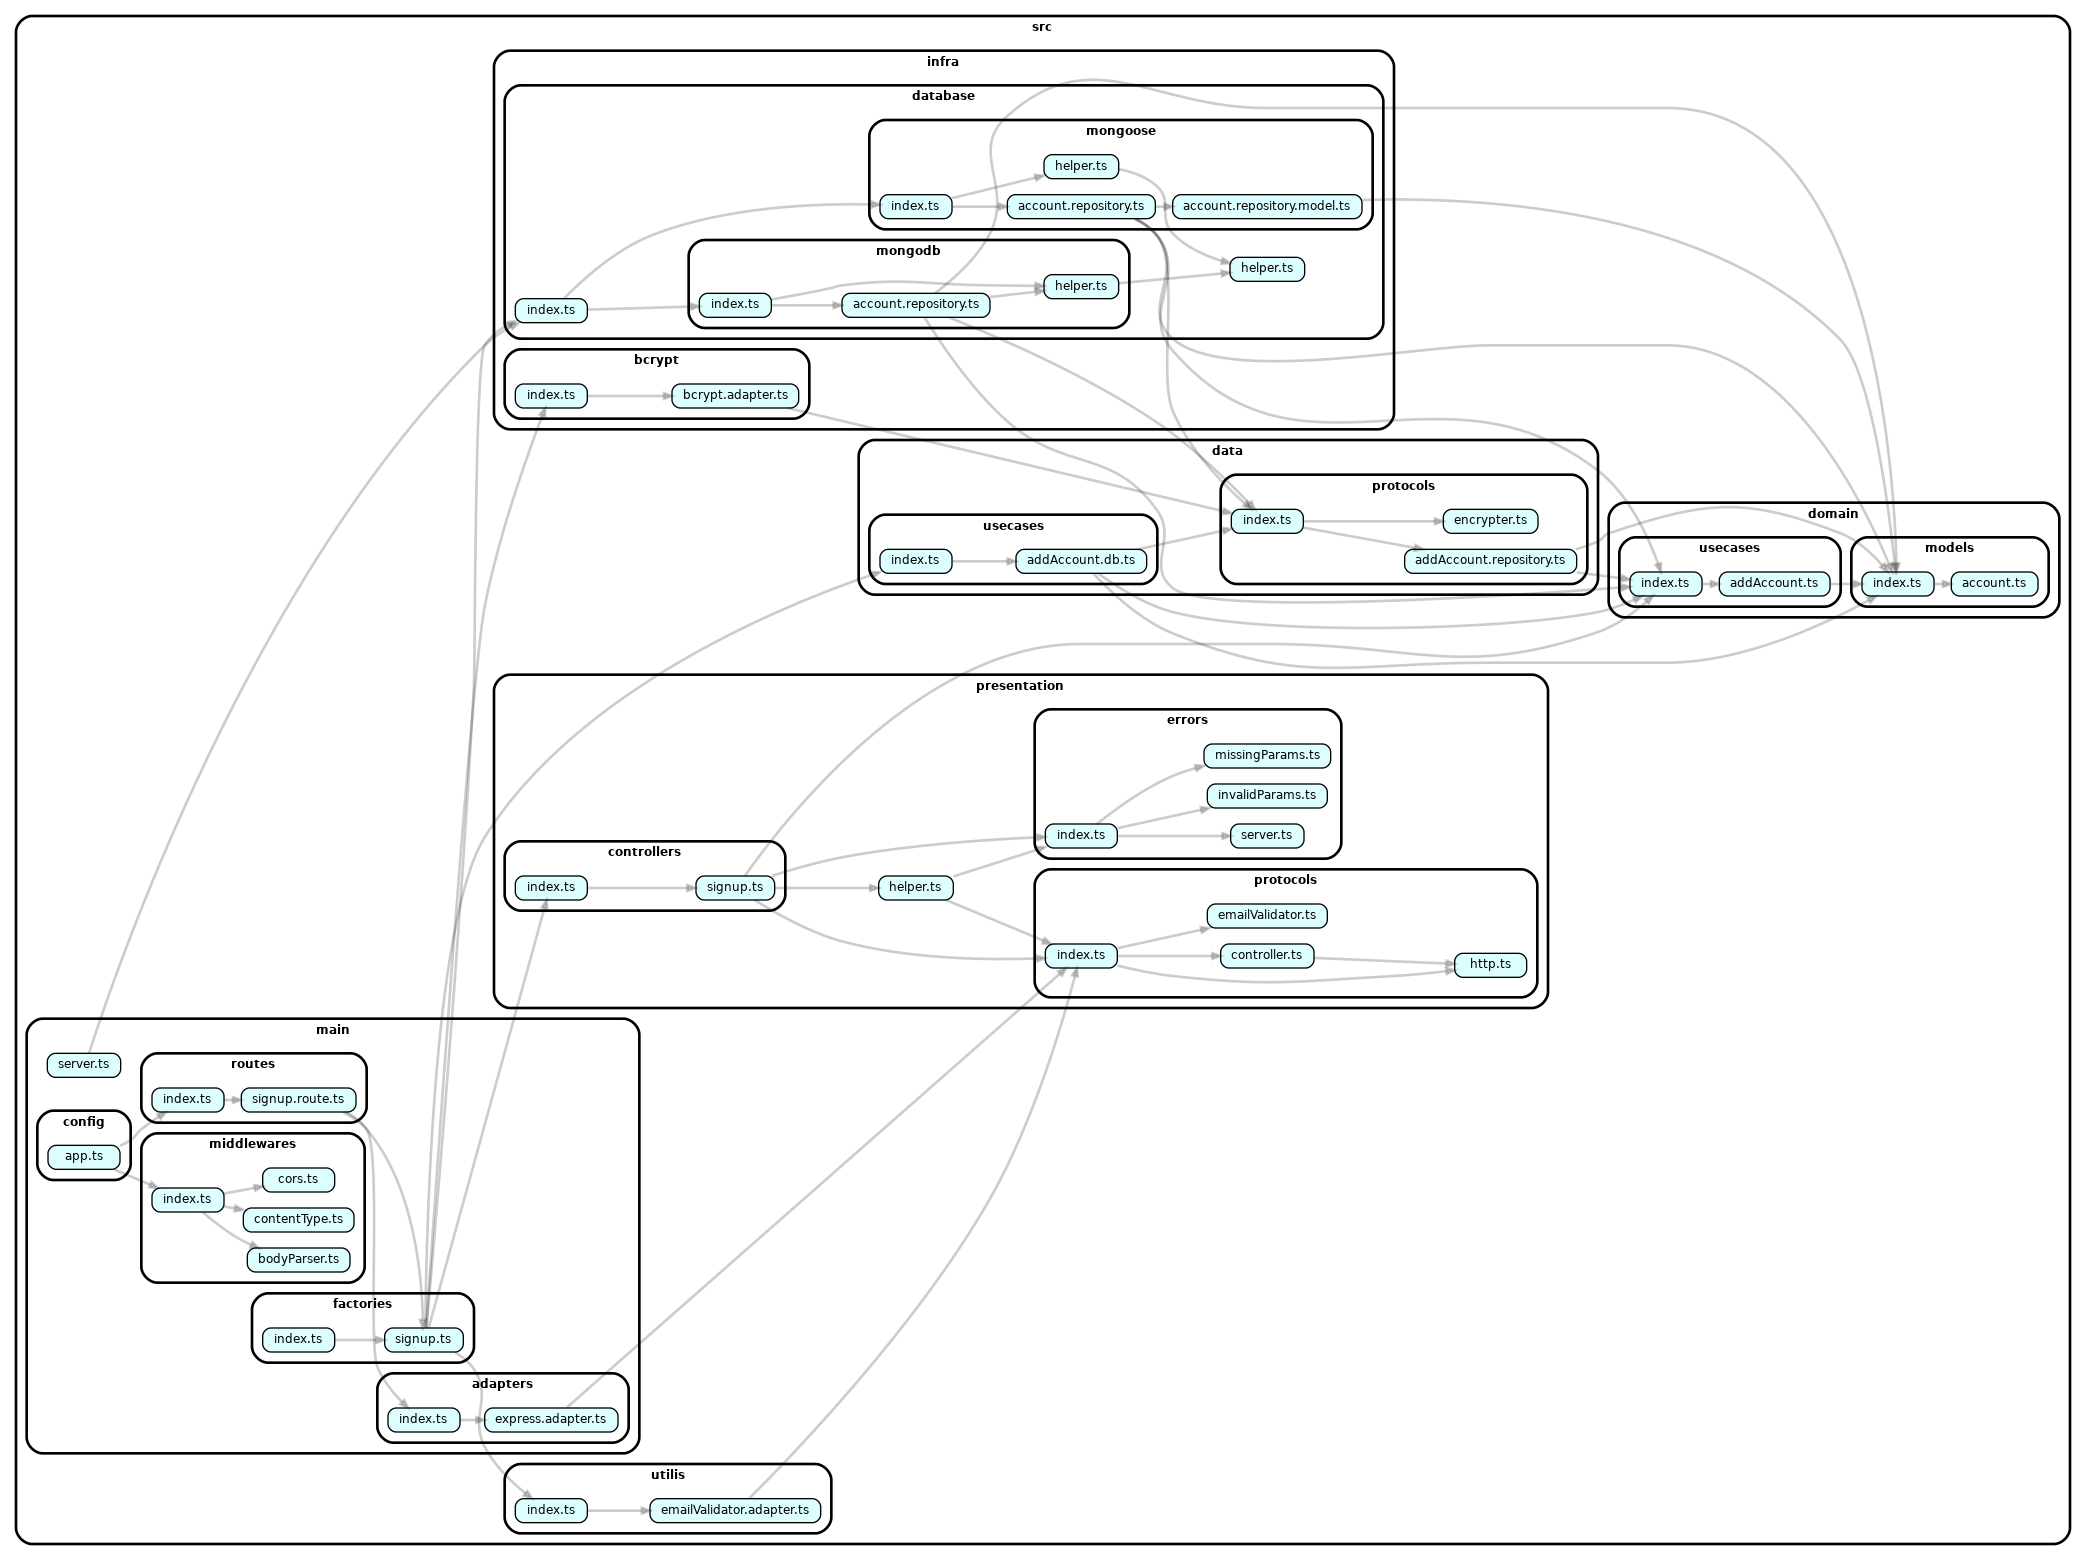
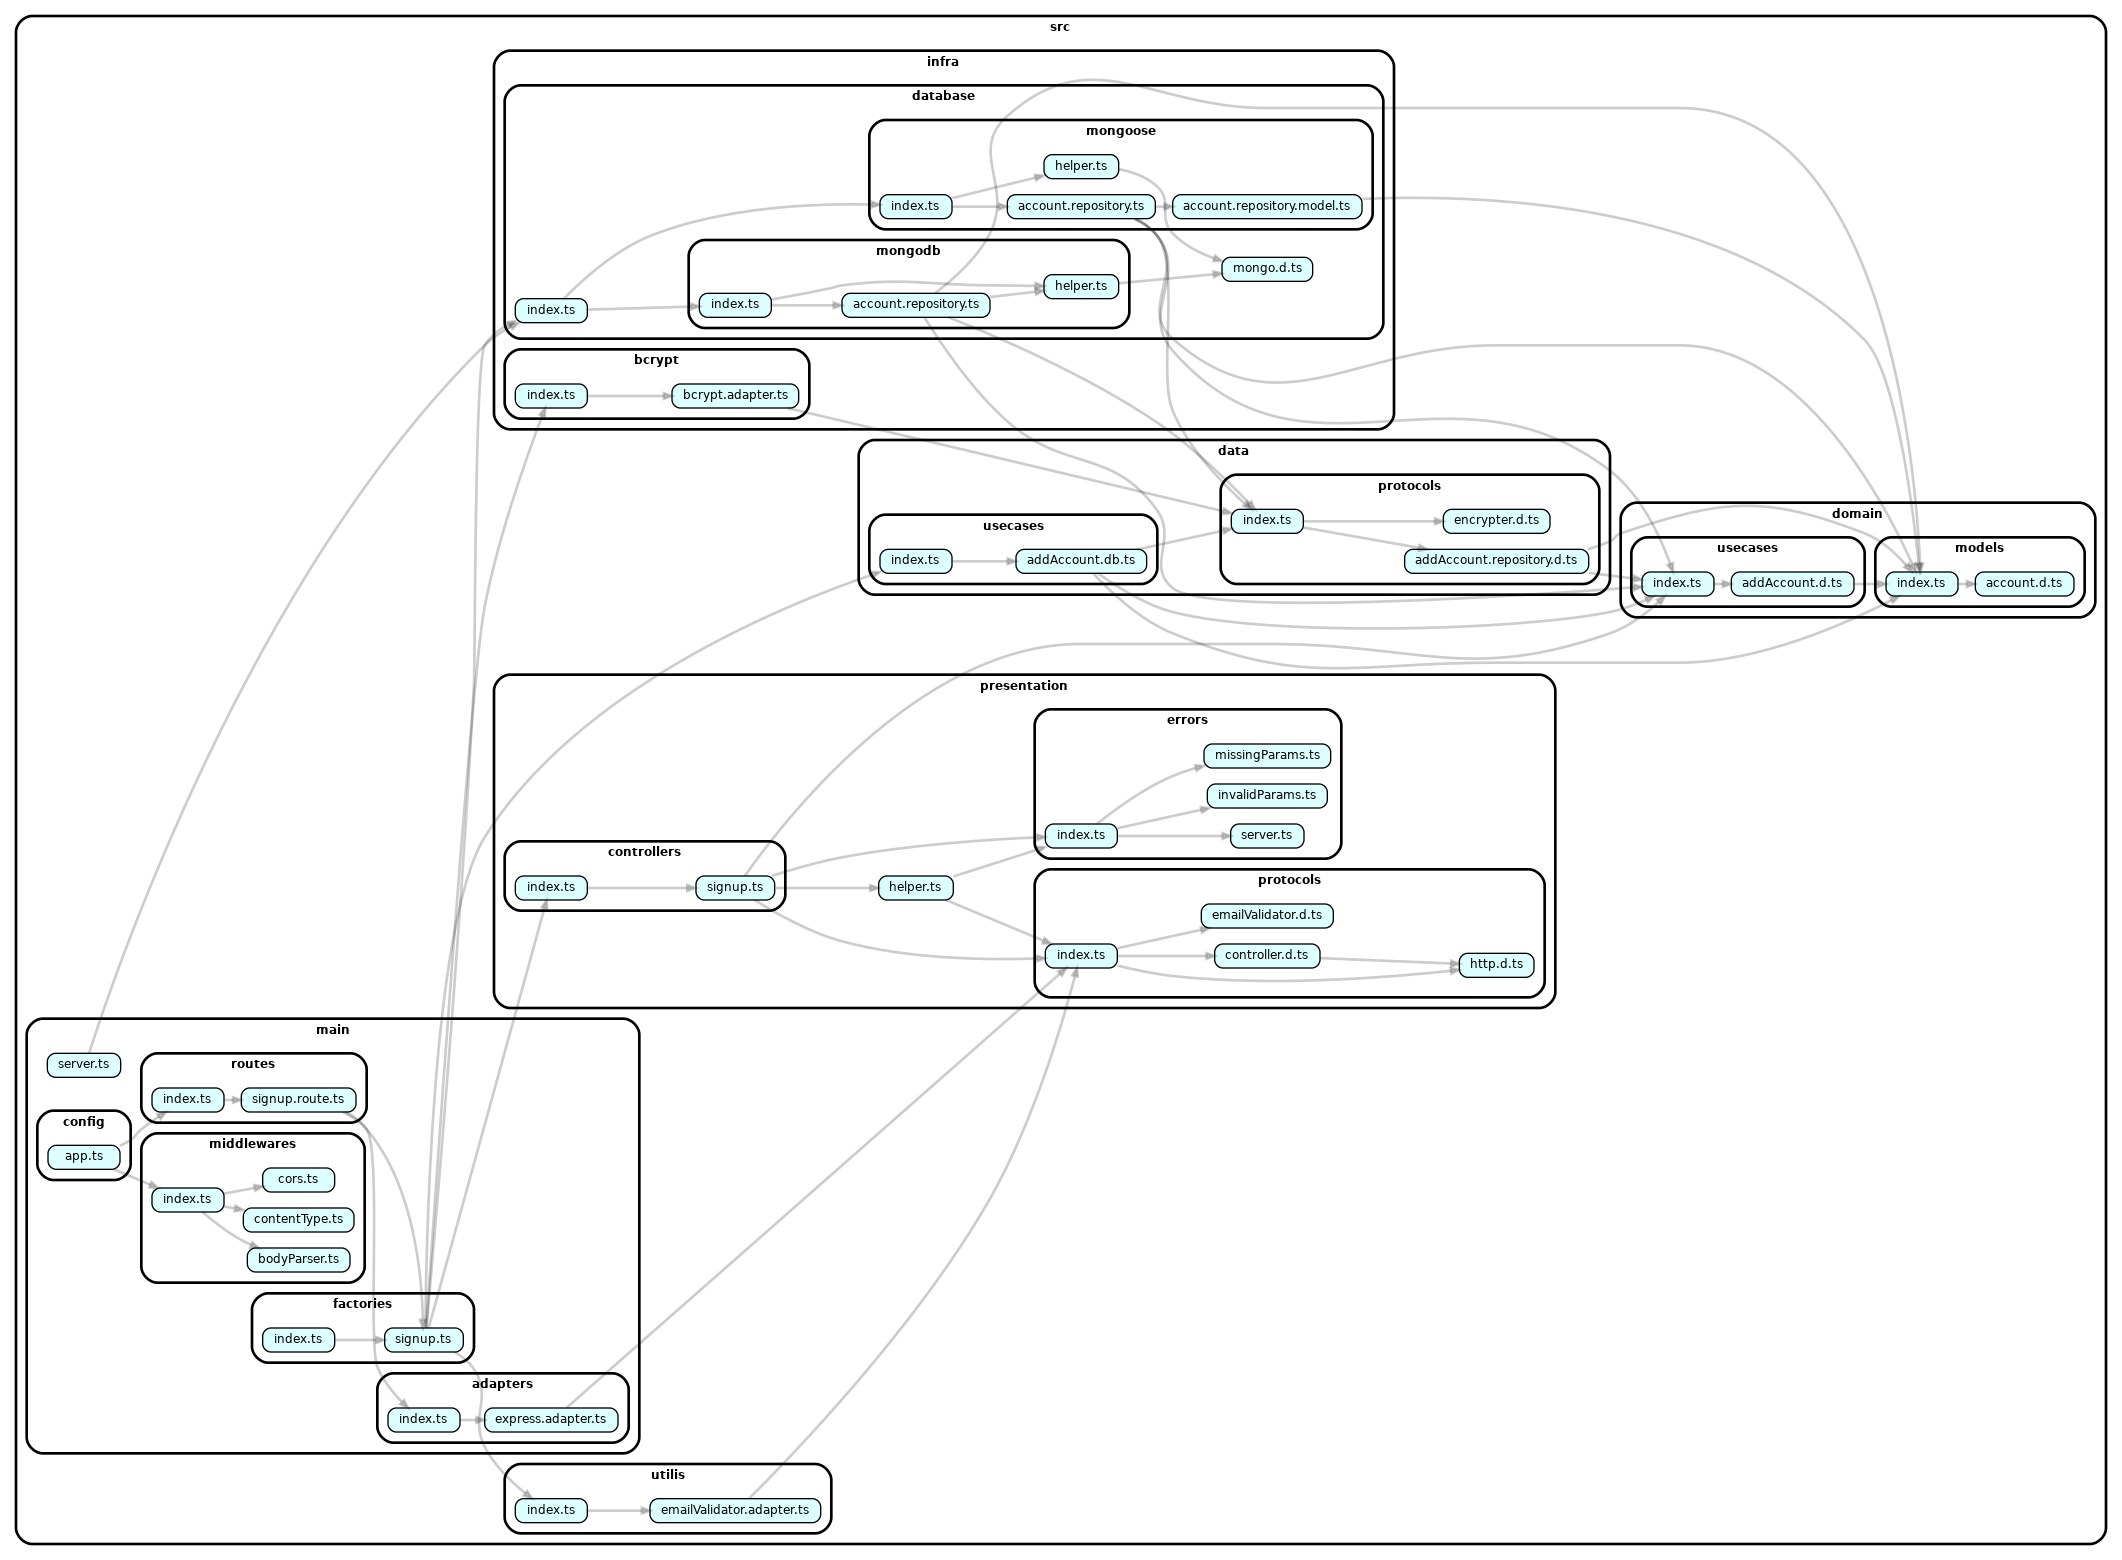
refacto: add .d extension to the interface files

diff --git a/src/infra/database/mongoose/helper.ts b/src/infra/database/mongoose/helper.ts
@@ -1,6 +1,6 @@
 import { MongoMemoryServer } from 'mongodb-memory-server'
 import mongoose from 'mongoose'
-import { IMongoHelper } from '../helper'
+import { IMongoHelper } from '../mongo'
 
 interface IMongooseHelper extends Pick<IMongoHelper, 'mongoServer' | 'connect' | 'disconnect' > { }
 

diff --git a/src/infra/database/mongodb/helper.ts b/src/infra/database/mongodb/helper.ts
@@ -1,6 +1,6 @@
 import { MongoClient, Collection } from 'mongodb'
 import { MongoMemoryServer } from 'mongodb-memory-server'
-import { IMongoHelper } from '../helper'
+import { IMongoHelper } from '../mongo'
 
 export const MongoDbHelper: IMongoHelper = {
   client: undefined,

diff --git a/README.md b/README.md
@@ -1,4 +1,4 @@
-# api-ddd
+# API Typescript Domaine Driven Design
 
 ## Internal stucture
 
